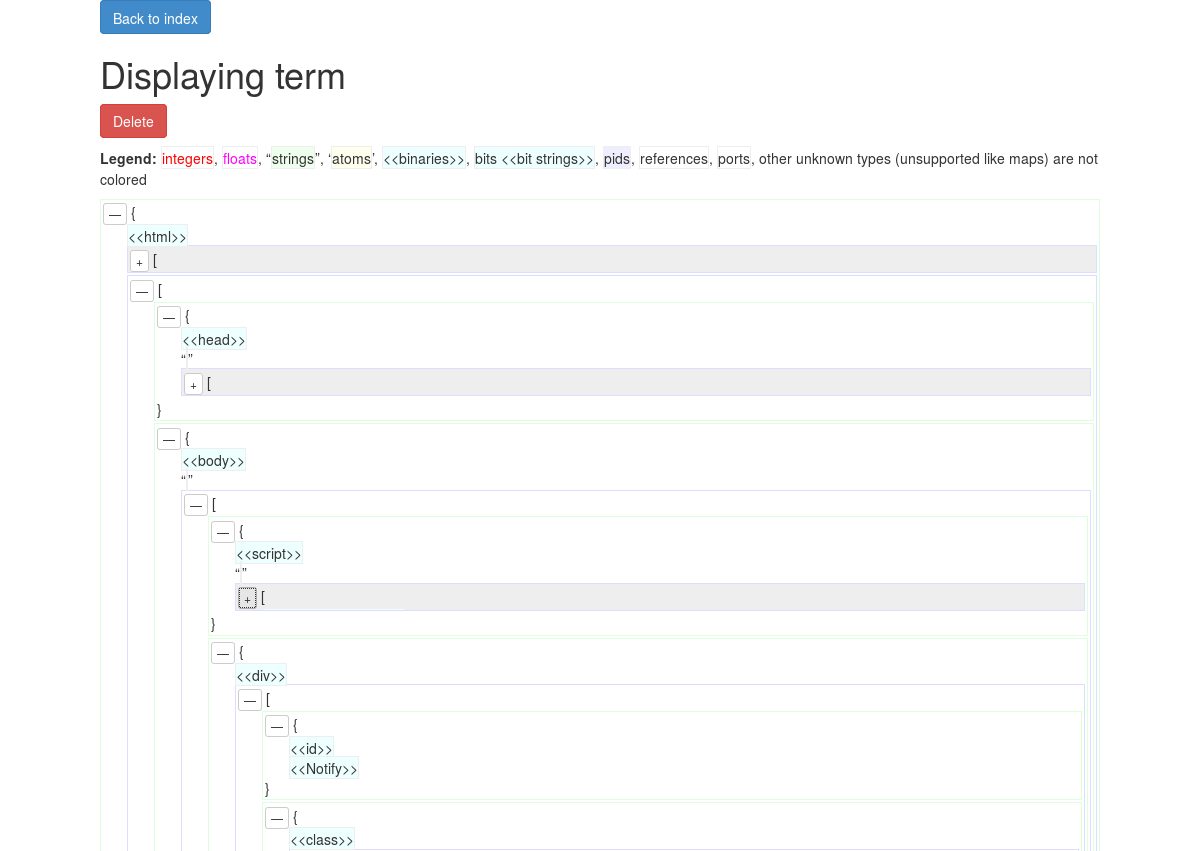
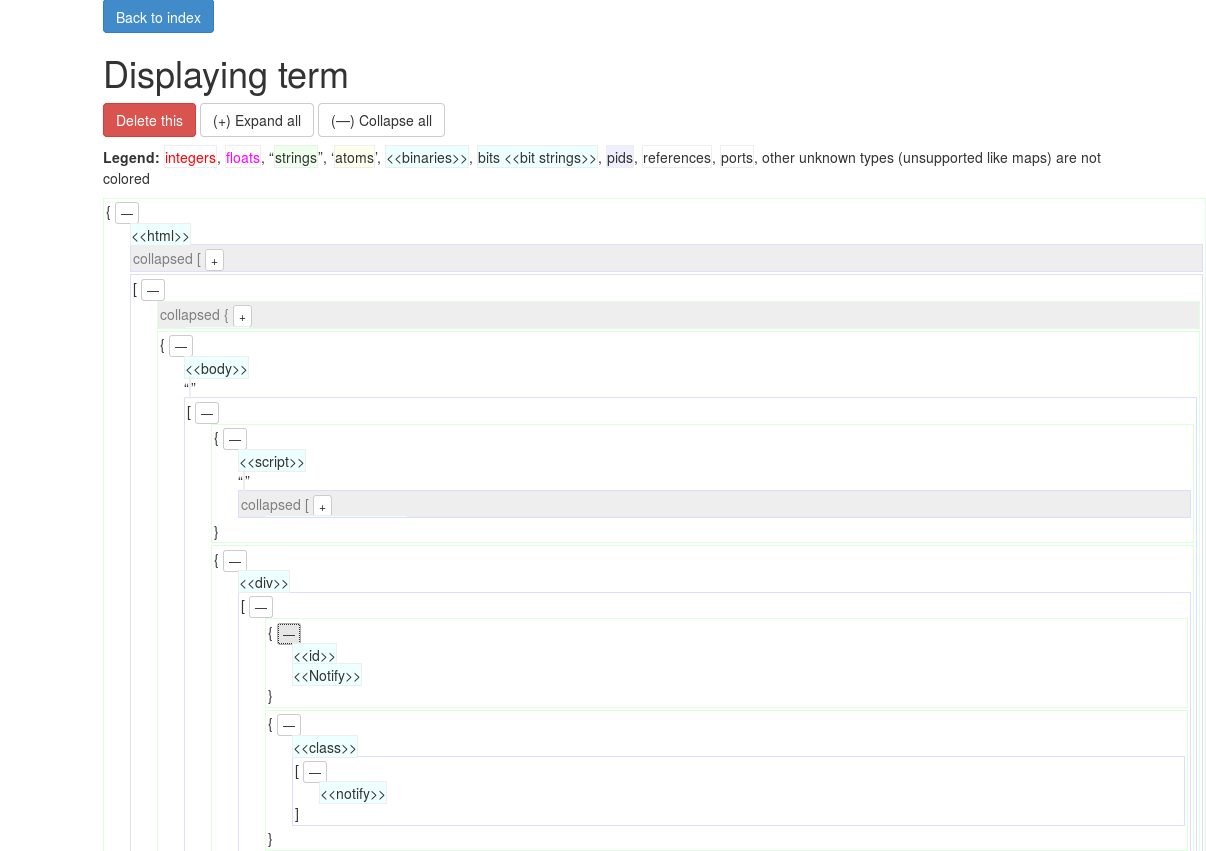
expand all/collapse all

diff --git a/priv/js/tx_controllers.js b/priv/js/tx_controllers.js
@@ -43,13 +43,13 @@ txApp.directive('term', function ($compile) {
 function html_term(term) {
   var result = '';
   if (term.t == 't') {
-    result += '<div class="tuplebox">' + collapse_container() + ' {';
+    result += '<div class="tuplebox">{ ' + collapse_container();
     term.v.forEach(function (subterm) {
       result += '<div class="indent">' + html_term(subterm) + '</div>';
     });
     result += '}</div>';
   } else if (term.t == 'l') {
-    result += '<div class="listbox">' + collapse_container() + ' [';
+    result += '<div class="listbox">[ ' + collapse_container();
     term.v.forEach(function(subterm) {
       result += '<div class="indent">' + html_term(subterm) + '</div>';
     });
@@ -107,4 +107,15 @@ function toggleCollapsed(button, collapsible) {
     button.addClass('minus');
     button.removeClass('plus');
   }
+}
+
+function click_all_buttons(cls) {
+  var root = $('div#terms');
+  click_buttons_under(root, cls);
+}
+
+function click_buttons_under(root, cls) {
+  $.each($(root).find('button.' + cls), function(index, value) {
+    $(value).trigger('click');
+  });
 }

diff --git a/priv/show.html b/priv/show.html
@@ -13,11 +13,19 @@
 
 <div class="row">
   <div class="col-lg-10 col-lg-offset-1">
-    <a href="/index.html?1" class="btn btn-primary">Back to index</a>
+    <p>
+      <a href="/index.html?1" class="btn btn-primary">Back to index</a>
+    </p>
 
     <h1>Displaying term</h1>
 
-    <p><a href="/tx/tx_esi:delete?{{show_id}}" class="btn btn-danger">Delete</a></p>
+    <p>
+      <a href="/tx/tx_esi:delete?{{show_id}}" class="btn btn-danger">Delete this</a>
+      <button class="btn btn-default"
+          onclick="click_all_buttons('plus')">(+) Expand all</button>
+      <button class="btn btn-default"
+          onclick="click_all_buttons('minus')">(—) Collapse all</button>
+    </p>
 
     <p><strong>Legend:</strong>
       <span class="value integer">integers</span>,
@@ -34,7 +42,7 @@
   </div>
 </div>
 <div class="row">
-  <div class="col-lg-11 col-lg-offset-1">
+  <div class="col-lg-11 col-lg-offset-1" id="terms">
     <term term="term"></term>
 
     <hr/>

diff --git a/priv/tx_show.css b/priv/tx_show.css
@@ -19,6 +19,10 @@ div.collapsed {
   max-height: 2em;
   background: #eee;
   overflow: hidden;
+  color: gray;
+}
+div.collapsed:before {
+  content: "collapsed ";
 }
 
 span.string {
@@ -50,5 +54,5 @@ button.minus:after {
   content: "—";
 }
 button.plus:after {
-  content: "expand +";
+  content: "+";
 }

diff --git a/README.md b/README.md
@@ -42,6 +42,8 @@ Run manually via: `tx:start().`. Default port is 20000, and default host is
 
 Possible things to add of improve
 
+* Backend could recognize record definitions and supply field information to 
+  frontend
 * Paste term from clipboard
 * Toggle nice vs. raw display (in case user wants to copy from page) or improve
   display so that copying from page would produce correct syntax
